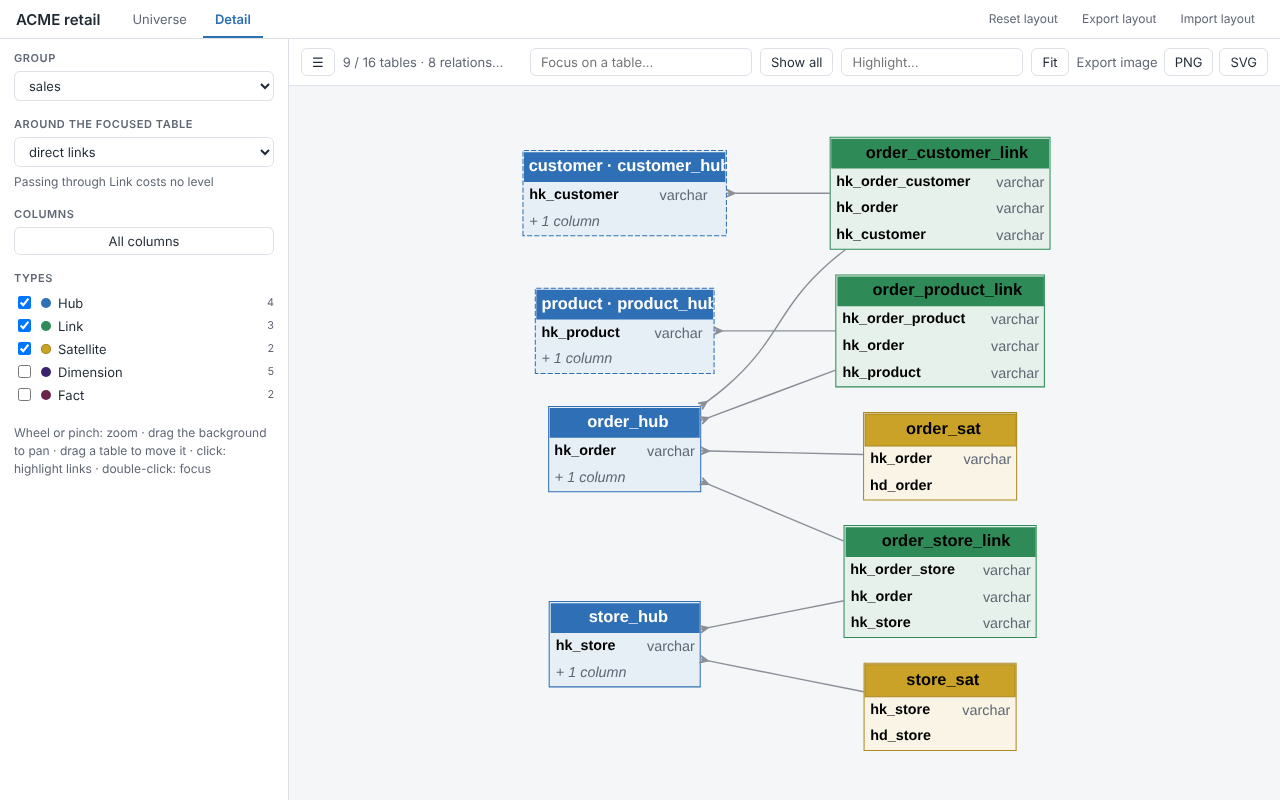
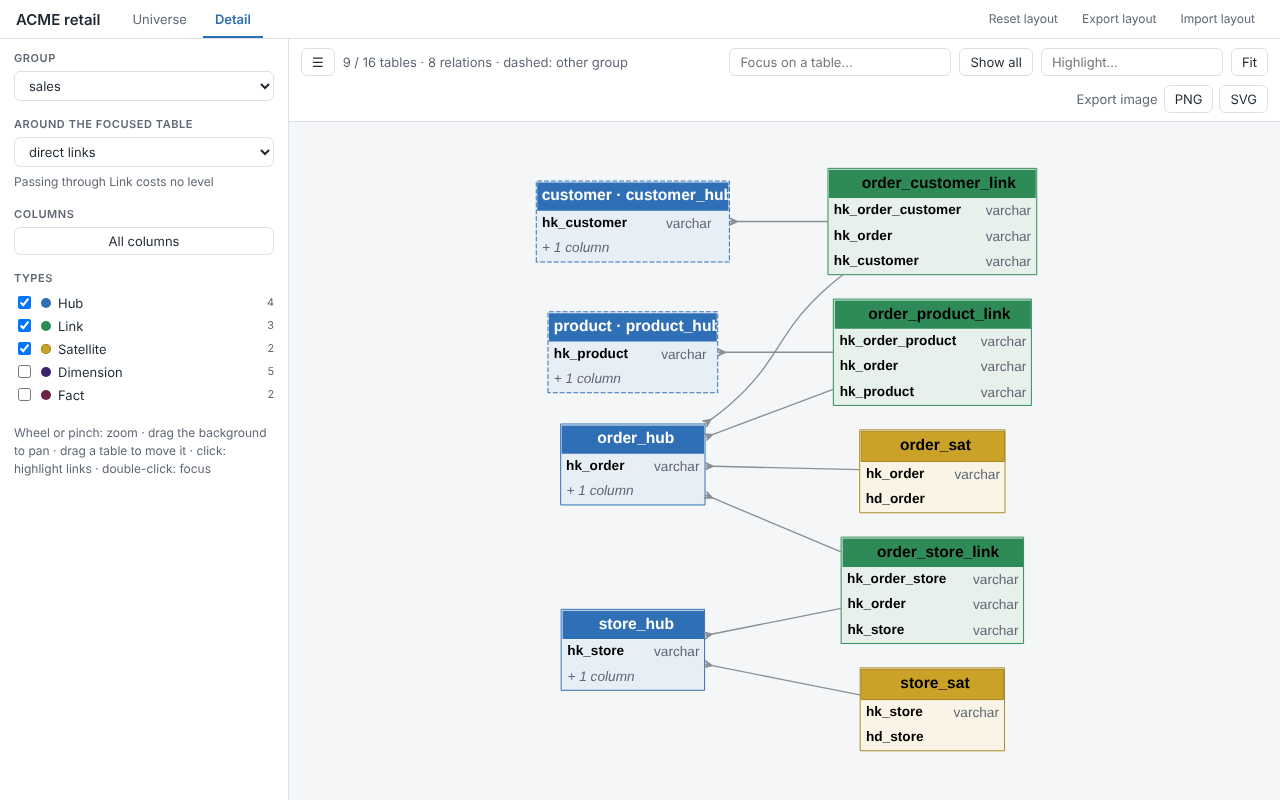
docs(docs): retake the screenshots after the page fixes
The screenshots of the example and of the large project are retaken
after D-082: counts lines whole, labels inside the canvas and off
neighbouring discs, the trajectory framed below its bar. The flow
image did not change. Approval by the user is pending.

Milestone: M8

Claude-Session: https://claude.ai/code/session_01SqA5qnr2e821Rq5c737Dbk

diff --git a/docs/images/README.md b/docs/images/README.md
@@ -36,6 +36,8 @@ The M6.1 images were taken this way by a Playwright script and a Pillow script k
 
 All ten were taken the same way on 2026-11-15 (after M8: roles, entities, summary cards off by default, source systems and routes, the detail skeleton), by scripts kept in the session scratchpad. The Playwright states: `universe-domain.png` ticks `keys` in the Tables select, then double-clicks an empty spot of the Sales disc, then moves the pointer off the canvas so that no tooltip shows; `trajectory.png` and `flow.png` fill `#u-q`, click `#u-traj` (direction `both`, depth `dall`), **Fit**, then **Flow** and its **Fit**; the detail images pick the group, untick kinds through the panel, click **Fit** and use `mouse.wheel` (100 per step) over the diagram; no image shows a tooltip or a hover state. Images taken with a quantised palette: `universe-domain`, `trajectory`, `large-overview`, `large-detail-skeleton`; the others are lossless.
 
+Nine of the ten were retaken again on 2026-11-15 with the page of D-082 (counts lines that wrap, constellation labels kept inside the canvas and off neighbouring discs, labels on a halo over the routes, room for the source-system labels, Fit framed below the trajectory bar), same states and scripts; `flow.png` was pixel-identical and kept. Approval of the retake: pending (user).
+
 ## The large project
 
 `large-*.png` come from the generated project of `tests/large_project.py` (1,419 tables, 7 source systems, 5 business domains, its own `dbt-erd.yml` with `LARGE_CONFIG`, no `universe.cards`, so the cards are off at opening). Build and open it like this (the writer, `write_large_project(folder)`, is run from `tests/` because it imports `conftest`):
